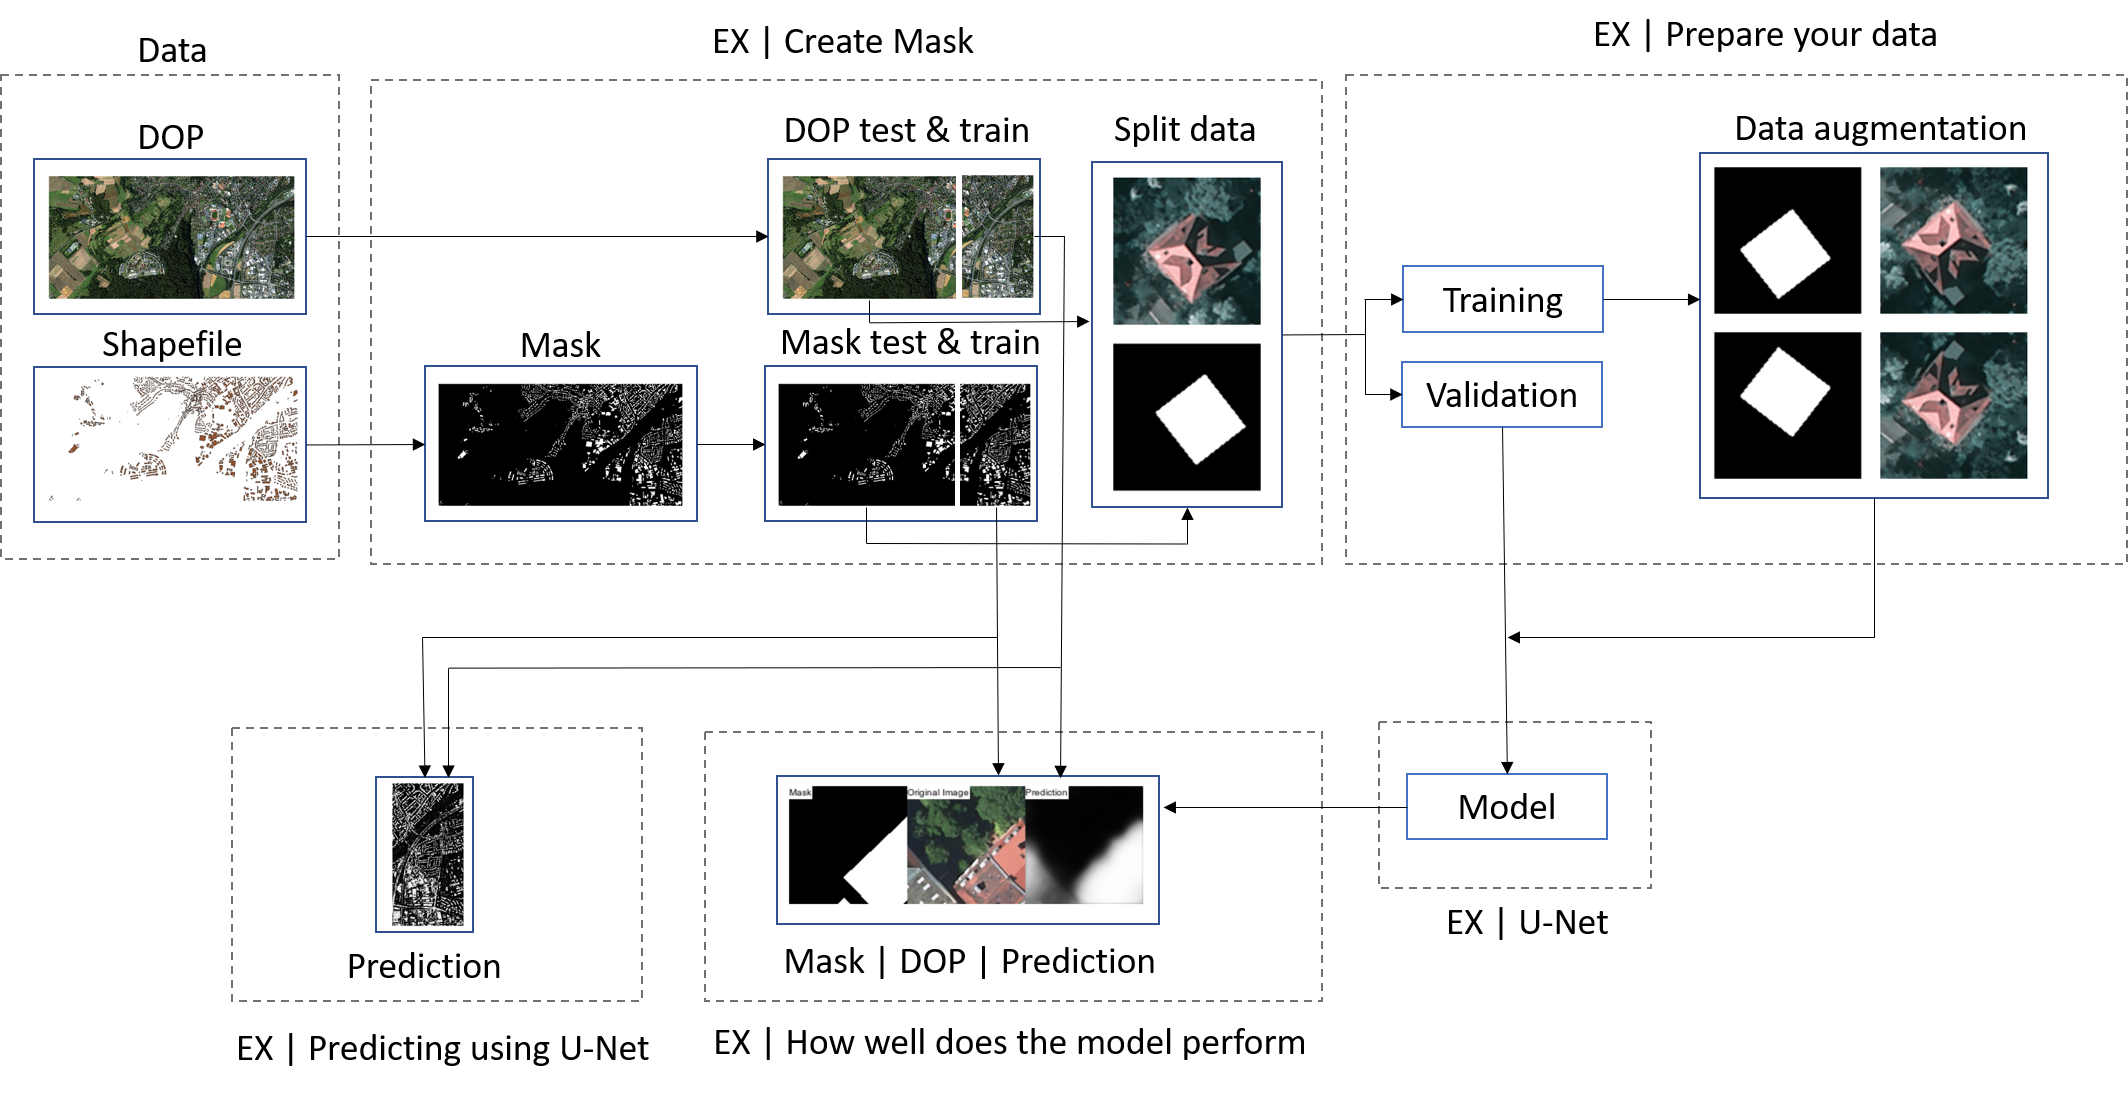
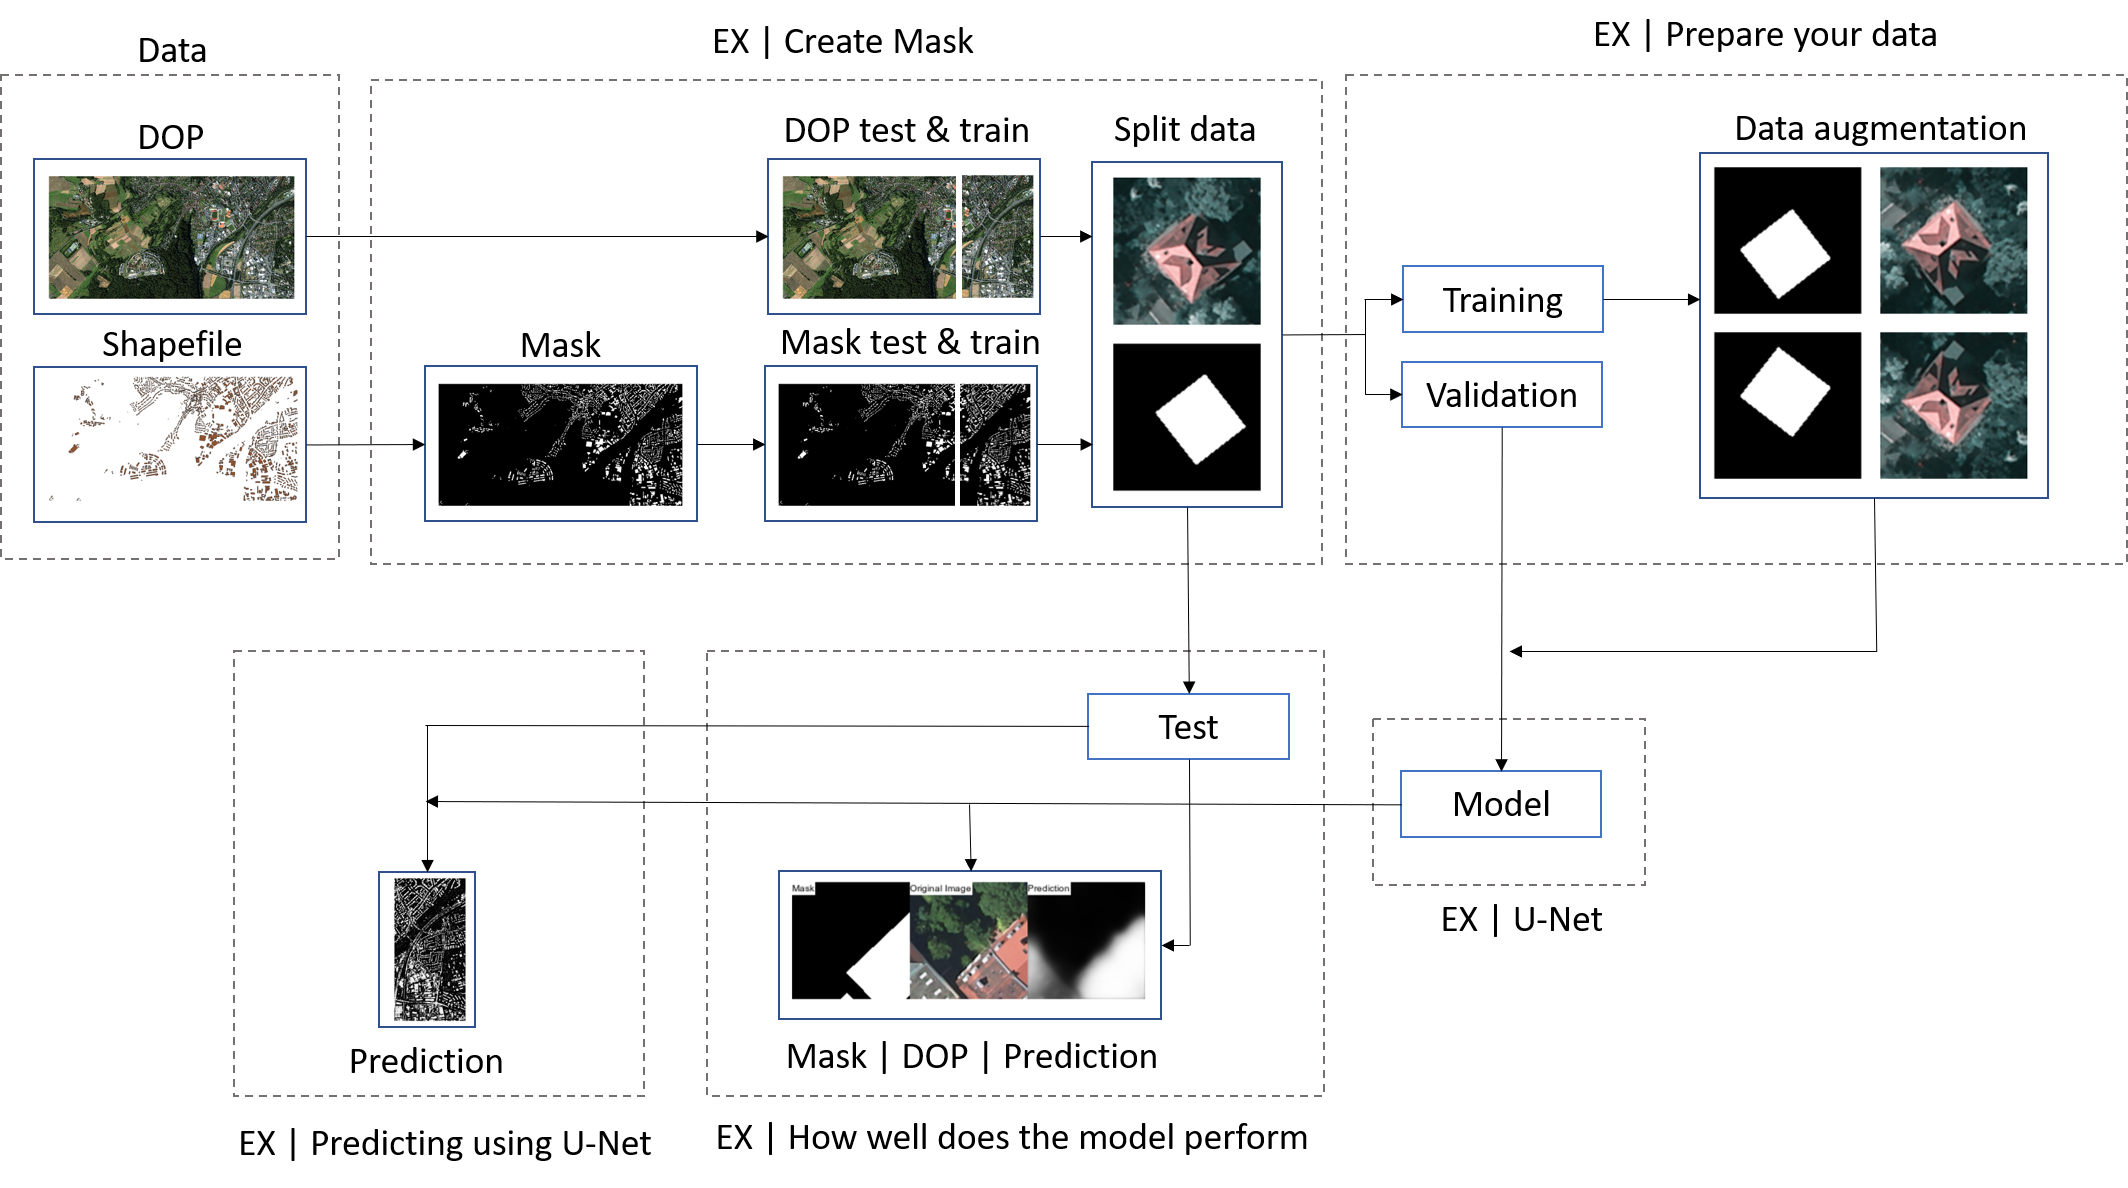
minor changes workflow image and typos

diff --git a/docs/units/_unit04/unit04-02-02_EX_unet.md b/docs/units/_unit04/unit04-02-02_EX_unet.md
@@ -187,8 +187,8 @@ The main reason for the calculation time is the large number of trainable parame
 However, these approaches must be modified with care, as they will affect the accuracy of the model. Some suggestions that can be easily modified from the existing example would be:
 
 - Changing the input size. Results in the spatial context being reduced, thus the generalisability of the model may be degraded and the training process may also become poor.
-- Decrease the batch size. Causes the number of input data per run to be reduced. The load on computing power is reduced and the computation time becomes longer.
-- Reduction in the number of training data. Either the training process takes place on a smaller image section or the ratio of training and validation data have to be changed.
+- Decrease the batch size. Causes the number of input data per run to be reduced.
+- Reduction of the number of training data. Either the training process takes place on a smaller image section or the ratio of training and validation data have to be changed.
 - If you have a dedicated GPU, TensorFlow can also be installed on it. In this way, the large number of parameters can be calculated side by side, to put it simply. This approach makes the training much faster, 
 but for beginners this approach is not recommended, as the installation is much more difficult. [Take a look](https://tensorflow.rstudio.com/installation/gpu/local_gpu/).
 - Increasing the learning rate could make your U-Net converge faster, but it is also possible that your U-Net is not able to learn something. 

diff --git a/docs/units/_unit04/unit04-01-02_deeply_good.md b/docs/units/_unit04/unit04-01-02_deeply_good.md
@@ -19,9 +19,11 @@ If this is your first exposure to deep learning, this section serves as an incre
 </p>
 
 Deep learning algorithms are a machine learning tool, just like random forest models. Deep learning is a special form of neural networks, as we can see in the image above, that are used frequently e.g. in computer vision.
-In the video above some operations were mentioned, that are used in the calculation of CNNs to transform the data, which are not explained in depth in this module. 
+In the video below some operations were mentioned, that are used in the calculation of CNNs to transform the data, which are not explained in depth in this module. 
 These also partially represent hyperparameters that are in the code of the exercises that occur in this unit. For a deeper understanding and the mathematical basics see: 
 [Dumoulin and Visin (2018)](https://arxiv.org/abs/1603.07285) , [Nielsen (2015)](http://neuralnetworksanddeeplearning.com/index.html) and [StatQuest](https://youtube.com/playlist?list=PLblh5JKOoLUIxGDQs4LFFD--41Vzf-ME1).
+
+
 {% include video id="RbcHiAYPbC0" provider="youtube" %}
 
 

diff --git a/docs/units/_unit04/unit04-00-00_overview.md b/docs/units/_unit04/unit04-00-00_overview.md
@@ -8,7 +8,7 @@ header:
 ---
 
 Besides traditional machine learning methods like Random Forest, Convolutional Neural Networks (CNN) as part of Deep Learning are nowadays a default algorithm for many perceptual tasks like computer vision or speech recognition.
-These CNNs are particularly suitable for such task because (spatial) patterns can be recognized at different hierachy levels. According to the properties of CNNs, they can also be adapted for remote sensing.
+These CNNs are particularly suitable for such tasks because (spatial) patterns can be recognized at different hierachy levels. According to the properties of CNNs, they can also be adapted for the field of remote sensing.
 
 
 <!--more-->
